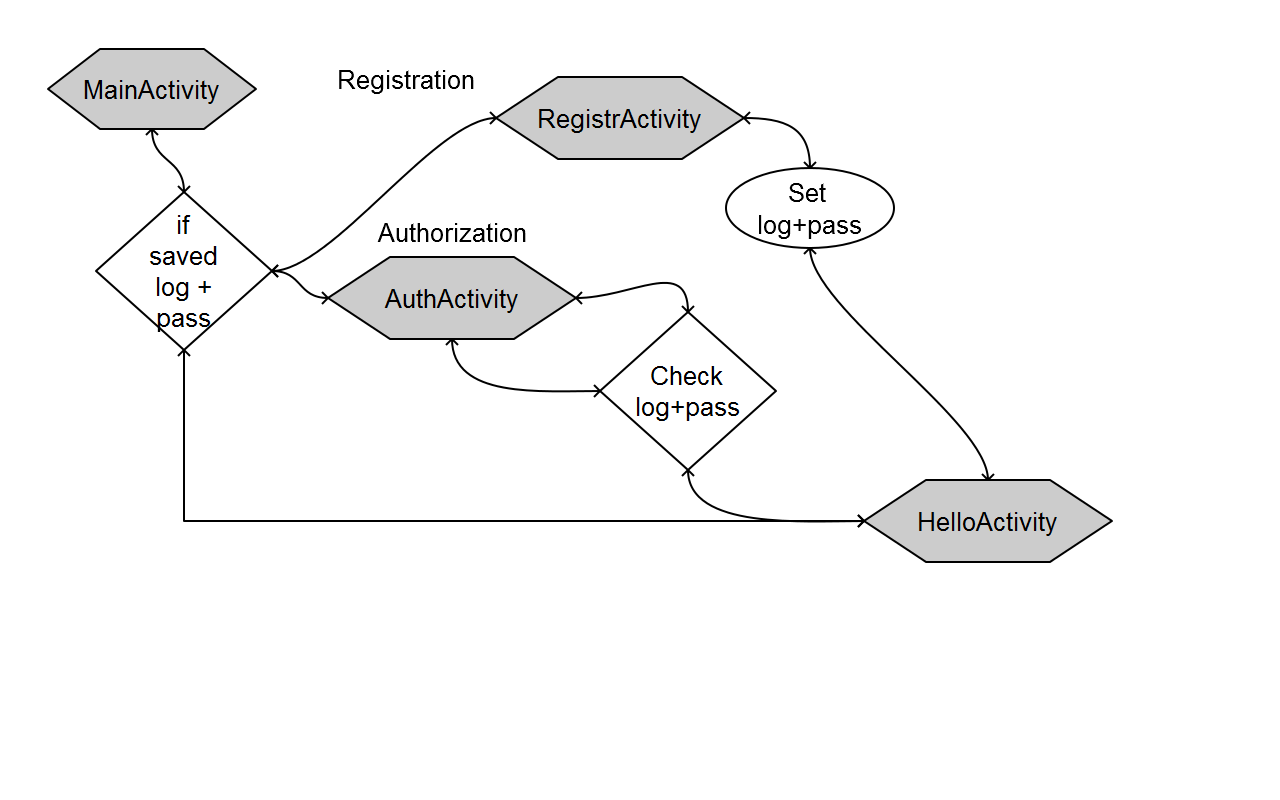
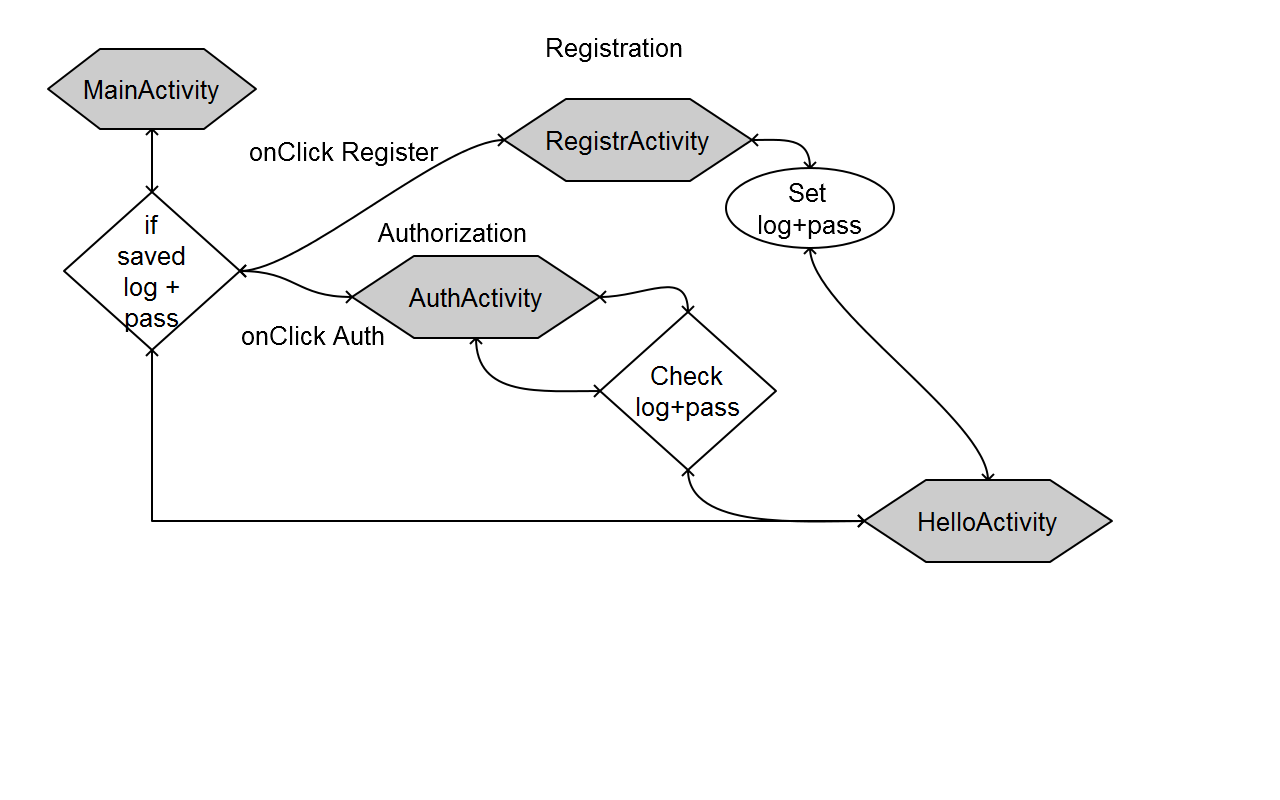
Added: activities, strings, onClick methods, preference class.

diff --git a/app/src/main/java/com/puzino/techmastest01/DataPreference.java b/app/src/main/java/com/puzino/techmastest01/DataPreference.java
@@ -1,0 +1,63 @@
+package com.puzino.techmastest01;
+
+import android.app.Activity;
+import android.content.SharedPreferences;
+import android.support.annotation.Nullable;
+
+import java.security.MessageDigest;
+
+/**
+ * Created by PY on 24.01.2017.
+ */
+
+public class DataPreference {
+
+    private SharedPreferences mPreferences;
+    private static String mPrefLoginName = "test_login";
+    private static String mPrefPassName = "test_password";
+
+    DataPreference(Activity activity){
+        mPreferences = activity.getPreferences(Activity.MODE_PRIVATE);
+    }
+
+    String getLogin(){
+        return mPreferences.getString(mPrefLoginName, "");
+    }
+
+    String getPassword(){
+        return mPreferences.getString(mPrefPassName, "");
+    }
+
+    void setLogin(String set){
+        //commit writes directly, apply - in background
+        mPreferences.edit().putString(mPrefLoginName, set).apply();
+    }
+
+    void setPassword(String set){
+        set = getSha1Hex(set);  //encode password
+        mPreferences.edit().putString(mPrefPassName, set).apply();
+    }
+
+    //add a little cryptography here
+    @Nullable
+    private static String getSha1Hex(String clearString)
+    {
+        try
+        {
+            MessageDigest messageDigest = MessageDigest.getInstance("SHA-1");
+            messageDigest.update(clearString.getBytes("UTF-8"));
+            byte[] bytes = messageDigest.digest();
+
+            StringBuilder buffer = new StringBuilder();
+            for (byte b : bytes) {
+                buffer.append(Integer.toString((b & 0xff) + 0x100, 16).substring(1));
+            }
+            return buffer.toString();
+        }
+        catch (Exception ignored)
+        {
+            ignored.printStackTrace();
+            return null;
+        }
+    }
+}

diff --git a/app/src/main/java/com/puzino/techmastest01/MainActivity.java b/app/src/main/java/com/puzino/techmastest01/MainActivity.java
@@ -1,7 +1,10 @@
 package com.puzino.techmastest01;
 
+import android.content.Intent;
+import android.content.SharedPreferences;
 import android.support.v7.app.AppCompatActivity;
 import android.os.Bundle;
+import android.view.View;
 
 public class MainActivity extends AppCompatActivity {
 
@@ -9,5 +12,21 @@ public class MainActivity extends AppCompatActivity {
     protected void onCreate(Bundle savedInstanceState) {
         super.onCreate(savedInstanceState);
         setContentView(R.layout.activity_main);
+
+        String tempCheck = new DataPreference(this).getLogin();
+        if(!tempCheck.isEmpty()){
+            Intent intent = new Intent(this, HelloActivity.class);
+            startActivity(intent);
+        }
+    }
+
+    public void onClickAuth(View view){
+        Intent intent = new Intent(this, AuthActivity.class);
+        startActivity(intent);
+    }
+
+    public void onClickRegister(View view){
+        Intent intent = new Intent(this, RegisterActivity.class);
+        startActivity(intent);
     }
 }

diff --git a/app/src/main/java/com/puzino/techmastest01/HelloActivity.java b/app/src/main/java/com/puzino/techmastest01/HelloActivity.java
@@ -1,0 +1,24 @@
+package com.puzino.techmastest01;
+
+import android.content.SharedPreferences;
+import android.support.v7.app.AppCompatActivity;
+import android.os.Bundle;
+import android.widget.TextView;
+
+import java.util.Locale;
+
+public class HelloActivity extends AppCompatActivity {
+
+    @Override
+    protected void onCreate(Bundle savedInstanceState) {
+        super.onCreate(savedInstanceState);
+        setContentView(R.layout.activity_hello);
+
+        //get login from preferences
+        String name = new DataPreference(this).getLogin();
+        String hello_text = String.format(Locale.getDefault(), getString(R.string.hello), name);
+
+        TextView textView = (TextView) findViewById(R.id.textView_hello);
+        textView.setText(hello_text);
+    }
+}

diff --git a/app/src/main/java/com/puzino/techmastest01/RegisterActivity.java b/app/src/main/java/com/puzino/techmastest01/RegisterActivity.java
@@ -1,0 +1,13 @@
+package com.puzino.techmastest01;
+
+import android.support.v7.app.AppCompatActivity;
+import android.os.Bundle;
+
+public class RegisterActivity extends AppCompatActivity {
+
+    @Override
+    protected void onCreate(Bundle savedInstanceState) {
+        super.onCreate(savedInstanceState);
+        setContentView(R.layout.activity_register);
+    }
+}

diff --git a/app/src/main/java/com/puzino/techmastest01/AuthActivity.java b/app/src/main/java/com/puzino/techmastest01/AuthActivity.java
@@ -1,0 +1,13 @@
+package com.puzino.techmastest01;
+
+import android.support.v7.app.AppCompatActivity;
+import android.os.Bundle;
+
+public class AuthActivity extends AppCompatActivity {
+
+    @Override
+    protected void onCreate(Bundle savedInstanceState) {
+        super.onCreate(savedInstanceState);
+        setContentView(R.layout.activity_auth);
+    }
+}
